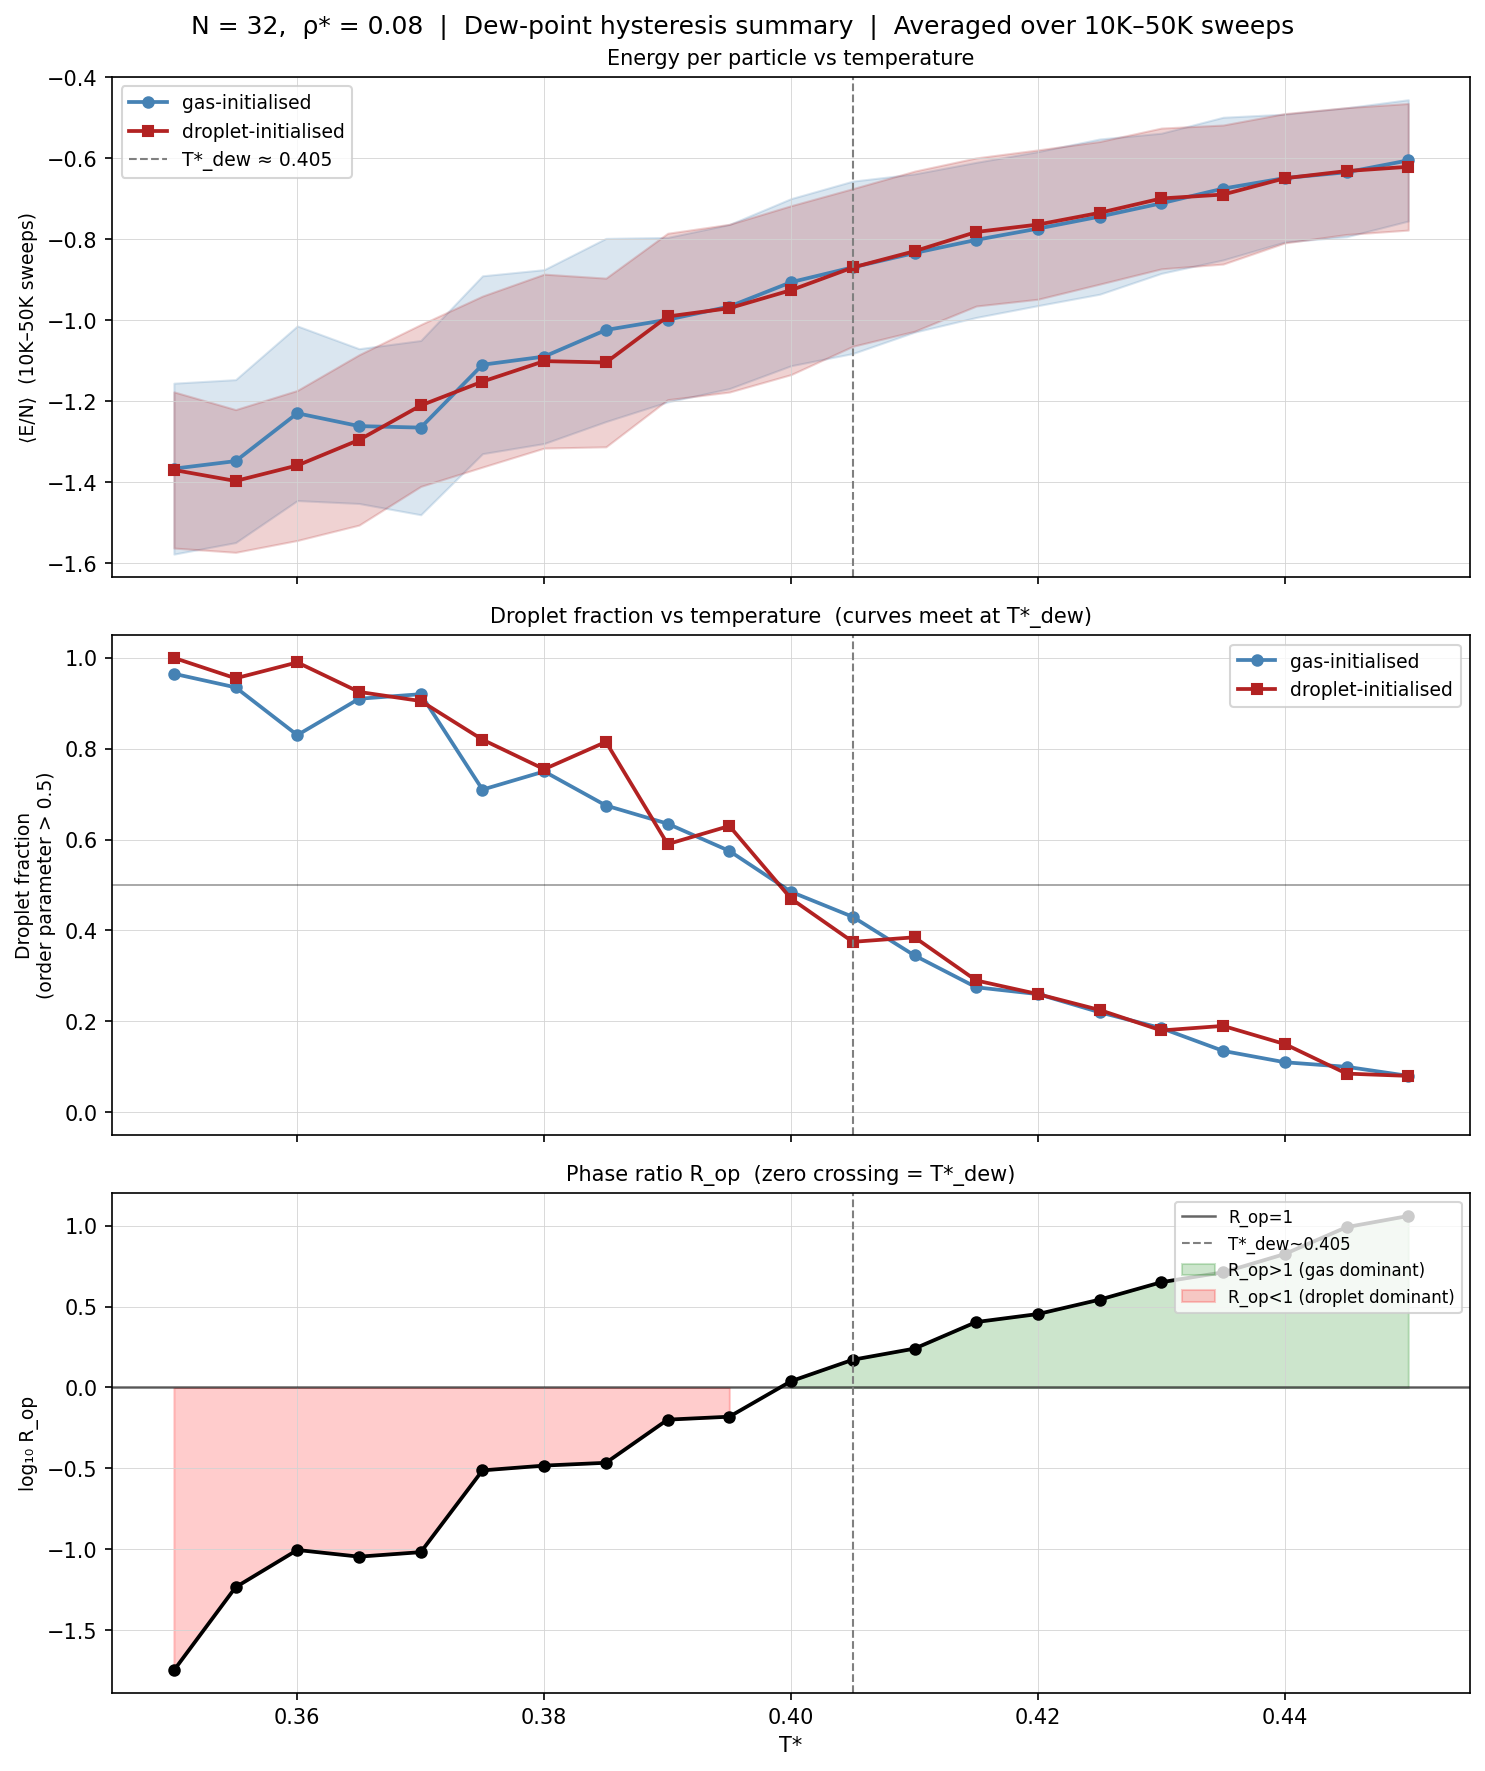
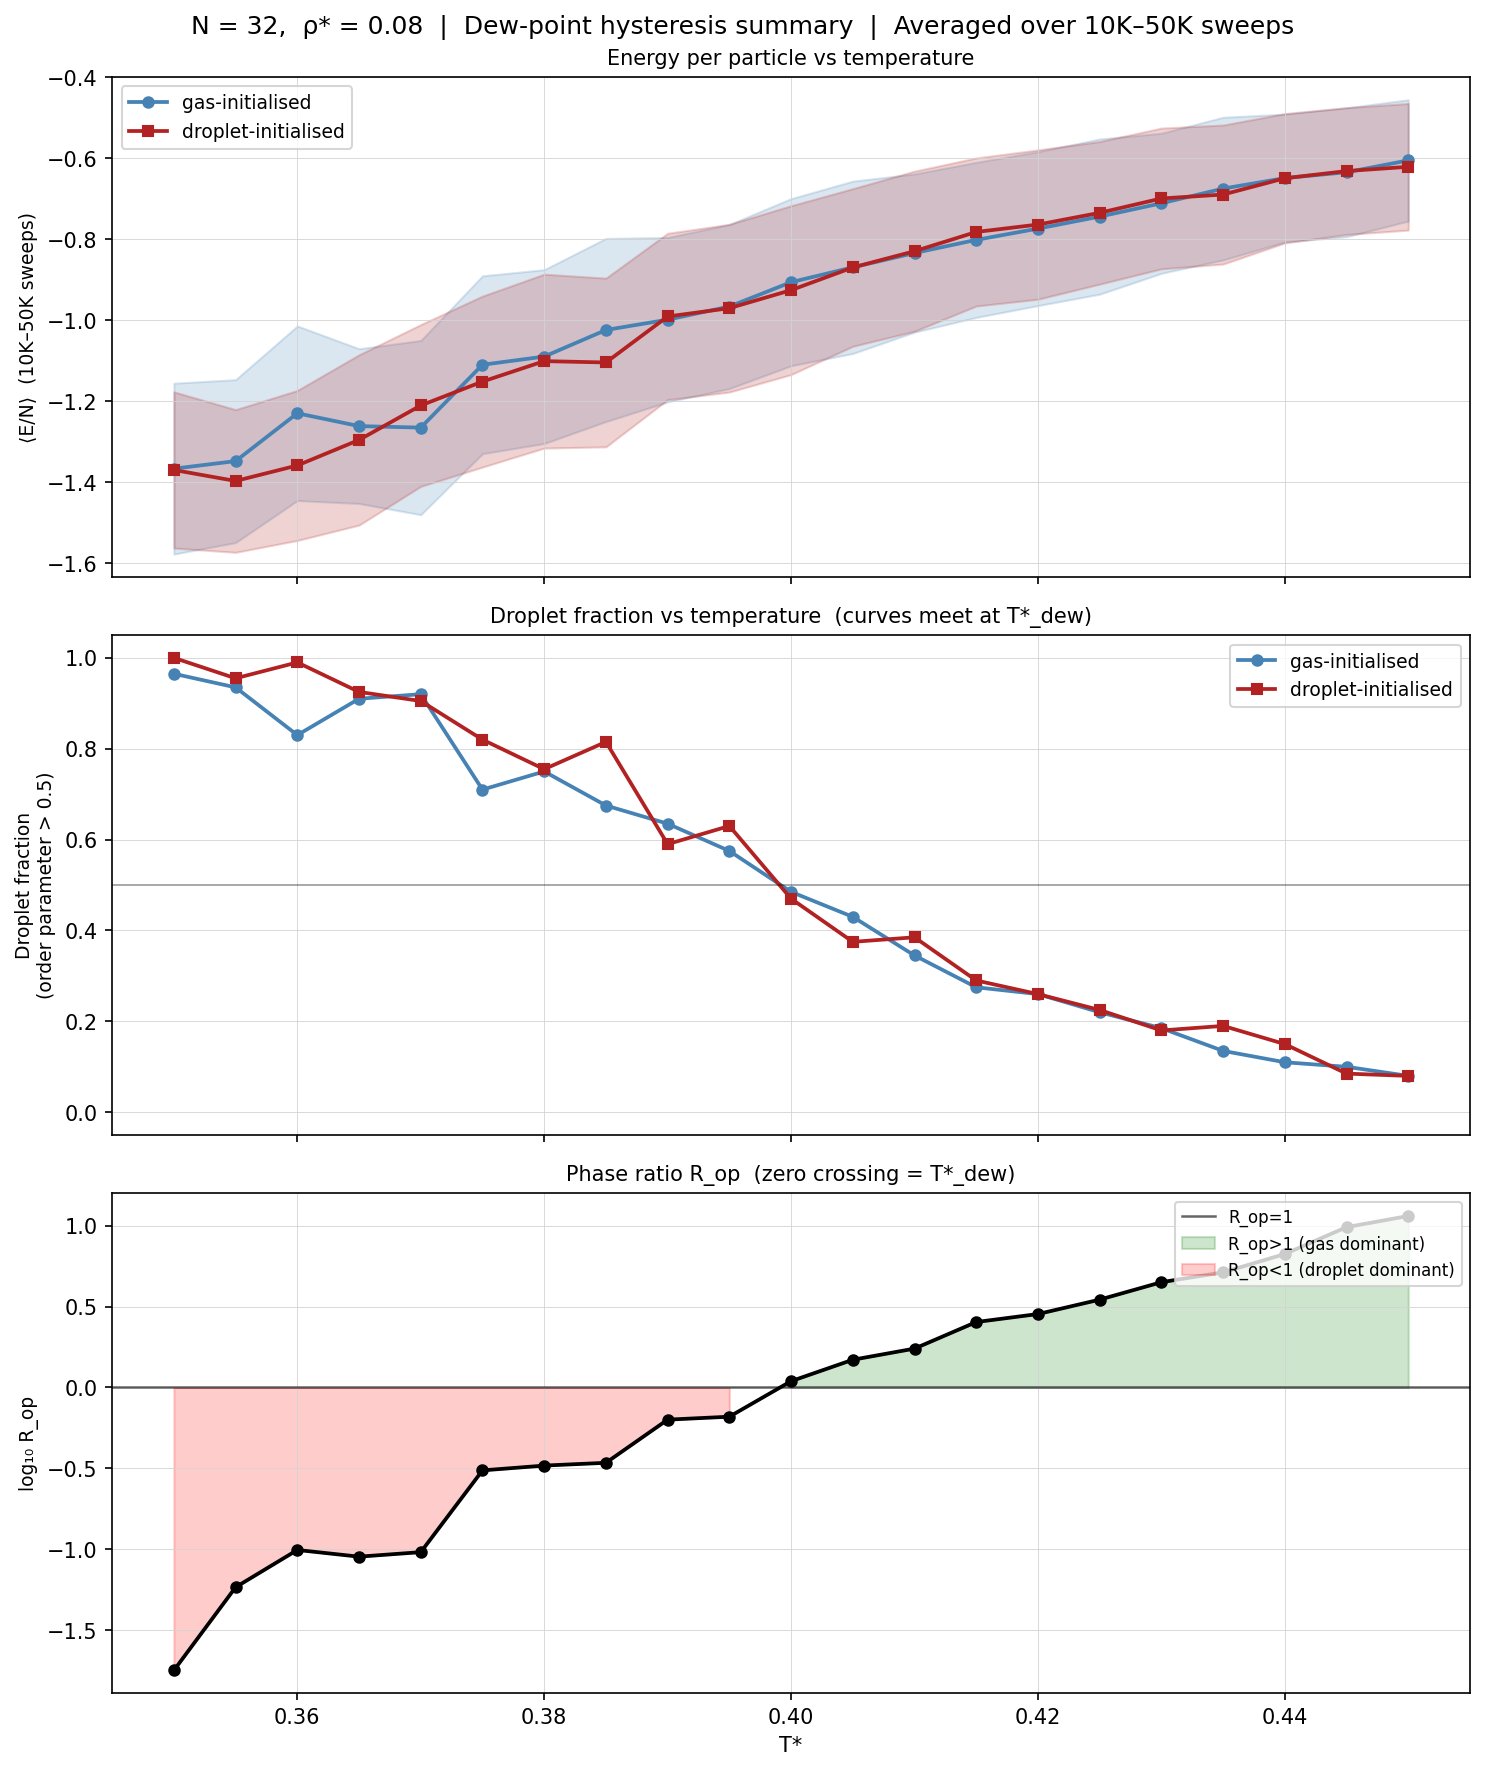
Remove hardcoded T*_dew=0.405 line from hysteresis plots
The line was from Stage B results, not derived from Stage A data.
Stage A is a diagnostic — it should not presuppose the answer.
🤖 Generated with [Nori](https://nori.ai)

Changed region(s): [[0.7744, 0.6832, 0.9912, 0.7453], [0.1239, 0.0621, 0.2168, 0.0932]]

diff --git a/content/projects/lj-coexistence/stage-a-v5/_index.md b/content/projects/lj-coexistence/stage-a-v5/_index.md
@@ -84,7 +84,8 @@ Three-panel summary averaged over sweeps 10K–50K (discarding early relaxation)
 3. **Phase ratio** $R_\text{op}$ — log-scale ratio of gas-like to droplet-like
    time. $R_\text{op} = 1$ (log $R_\text{op} = 0$) marks the dew point.
 
-The vertical dashed line shows $T^*_\text{dew} \approx 0.405$.
+The data shows the energy gap closing and the droplet fractions merging
+around $T^* \approx 0.40$–$0.41$.
 
 #### N = 32
 ![N=32 Hysteresis](/lorenzo.science/viewers/stage-a-v5/N32/N32_hysteresis_10K_50K.png)
